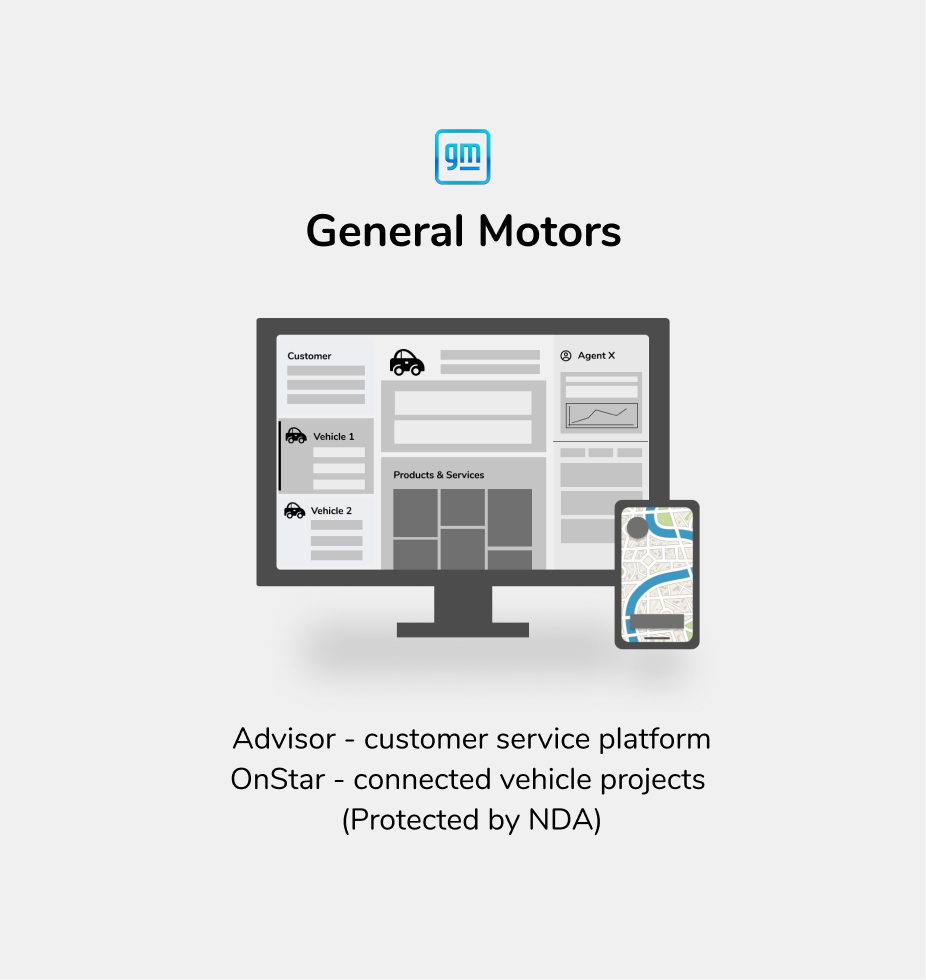
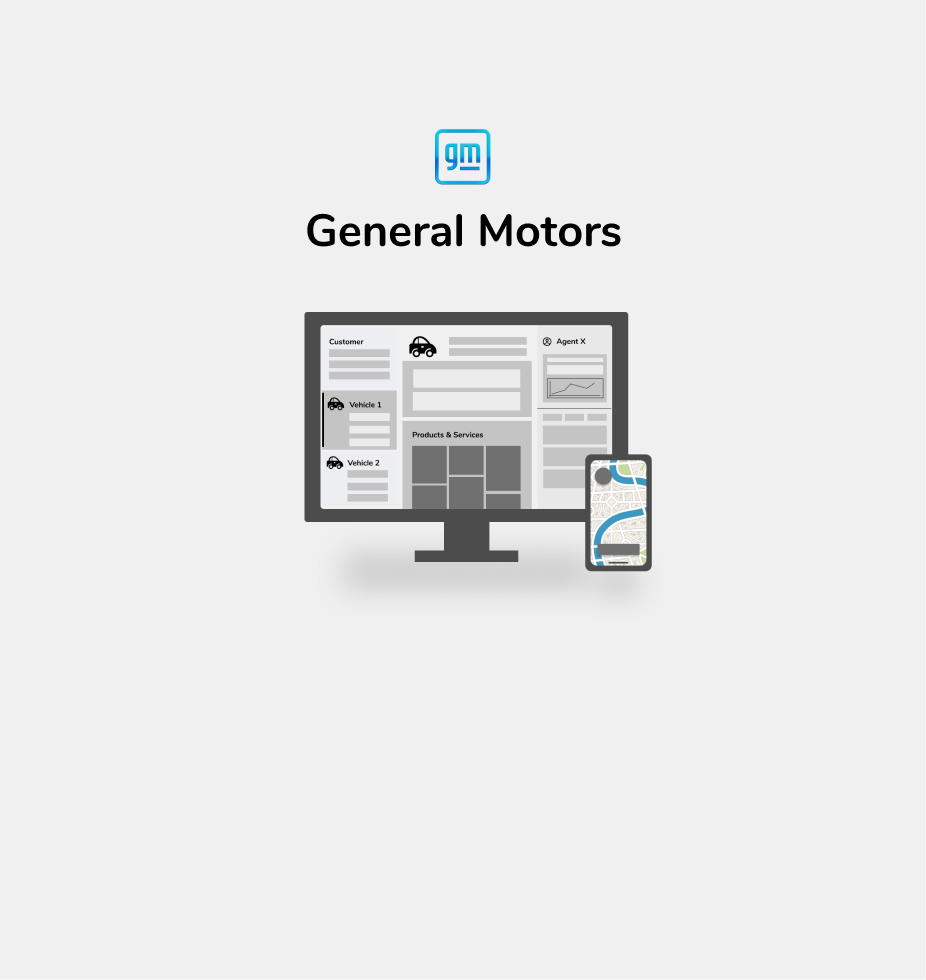
responsive home

Changed region(s): [[0.2721, 0.3061, 0.7559, 0.7041], [0.3629, 0.7347, 0.7559, 0.8571], [0.2419, 0.7347, 0.3629, 0.8265]]

diff --git a/index.html b/index.html
@@ -124,7 +124,7 @@
                                 <div class="about-wrapper wow fadeInRight">
                                     <div>
                                         
-                                        <div class="site-heading" style="display: inline-block;">
+                                        <div class="site-heading project_header" >
                                             <h3>General Motors
                                             </h3>
                                         </div>
@@ -153,7 +153,7 @@
                             <div class="col-lg-6 col-md-12 col-xs-12 info">
                                 <div class="about-wrapper wow fadeInRight">
                                     <div>
-                                        <div class="site-heading" style="display: inline-block;">
+                                        <div class="site-heading project_header">
                                             <h3>Ava
                                             </h3>
                                         </div>
@@ -182,7 +182,7 @@
                             <div class="col-lg-6 col-md-12 col-xs-12 info">
                                 <div class="about-wrapper wow fadeInRight">
                                     <div>
-                                        <div class="site-heading" style="display: inline-block;">
+                                        <div class="site-heading project_header">
                                             <h3>Cinetrip
                                             </h3>
                                         </div>
@@ -211,7 +211,7 @@
                             <div class="col-lg-6 col-md-12 col-xs-12 info">
                                 <div class="about-wrapper wow fadeInRight">
                                     <div>
-                                        <div class="site-heading" style="display: inline-block;">
+                                        <div class="site-heading project_header">
                                             <h3>Levels.fyi
                                             </h3>
                                         </div>
@@ -240,7 +240,7 @@
                             <div class="col-lg-6 col-md-12 col-xs-12 info">
                                 <div class="about-wrapper wow fadeInRight">
                                     <div>
-                                        <div class="site-heading" style="display: inline-block;">
+                                        <div class="site-heading project_header">
                                             <h3>I'll Go If You Go
                                             </h3>
                                         </div>
@@ -269,7 +269,7 @@
                             <div class="col-lg-6 col-md-12 col-xs-12 info">
                                 <div class="about-wrapper wow fadeInRight">
                                     <div>
-                                        <div class="site-heading" style="display: inline-block;">
+                                        <div class="site-heading project_header">
                                             <h3>UX Design Intern
                                             </h3>
                                         </div>
@@ -298,34 +298,6 @@
                 </div>
             </div>
         </section>
-        <!-- Feature Section End -->
-        <!-- Signup Section Start -->
-        <!--       <section id="signup" class="section-padding bg-gray">
-            <div class="container">
-                <div class="section-header text-center">
-                    <h2 class="section-title wow fadeInDown" data-wow-delay="0.3s">Stay Tuned</h2>
-                    <div class="shape wow fadeInDown" data-wow-delay="0.3s"></div>
-                </div>
-                <div class="row contact-form-area wow fadeInUp" data-wow-delay="0.4s">
-                    <div class="col-lg-4 col-md-12 col-sm-12">
-                    </div>
-                    <div class="col-lg-4 col-md-12 col-sm-12"> -->
-                        <!-- Sign up form start-->
-                        <!--                         <section class="text-center">
-                            <form id="contactForm2" data-toggle="validator" data-focus="false">
-                                <h4>Exclusive Early Access to Cinetrip</h4>
-                                <input type="email" class="form-control" id="cemail2" placeholder="Enter your email" aria-describedby="emailHelp" pattern="[a-z0-9._%+-]+@[a-z0-9.-]+\.[a-z]{3}$" required>
-                                <small id="emailHelp" class="form-text text-muted">No newsletter. No promotion ads. No misuse.</br>
-                                Your information is absolutely confidential. </small>
-                                <div class="header-button">
-                                    <button type="submit" class="btn btn-border">COUNT ME IN</button>
-                                </div>
-                            </form>
-                        </section>
-                    </div>
-                </div>
-            </div> -->
-            <!-- </section> -->
             <!-- Signup Section End -->
             <!-- Footer Section Start -->
             <footer id="footer" class="footer-area section-padding">

diff --git a/assets/css/responsive.css b/assets/css/responsive.css
@@ -172,8 +172,19 @@
     .gm-parallax {
 
   /* The image used */
-  background-image: url("../img/gm-img/gm_mobile.png");  /* Set a specific height */
+  background-image: url("../img/gm-img/gm_mobile.png"); 
+  min-height: 550px; /* Set a specific height */
 }
+
+.project-tag{
+  margin-left: 0;}
+
+  .project-tag2{
+  padding: 0;
+  margin-left: 0;}
+
+
+
 
     .video-features {
       width:38%;
@@ -212,6 +223,11 @@
     .section-padding {
       padding: 60px 30px;
     }
+
+      #work{
+    padding-bottom: 0;
+    
+  }
 
     .section-title {
       font-size: 32px;
@@ -320,6 +336,7 @@
     .footer-area .footer-titel {
       margin-top: 30px;
     }
+
 
     .contact-right-area {
       margin: 20px 0;

diff --git a/assets/css/main.css b/assets/css/main.css
@@ -430,7 +430,6 @@ color:#3d5af1;
 
 /*project tag*/
 .project-tag{
-  margin-left: 1em;
   display: inline-block;
   font-size: 13px;
   color:#3d5af1;
@@ -440,13 +439,18 @@ color:#3d5af1;
 }
 
 .project-tag2{
-  margin-left: 1em;
   display: inline-block;
   font-size: 13px;
   color:#3d5af1;
   padding: 5px 10px;
   border-radius: 20px;
   background-color: white;
+}
+
+.project_header{
+  display: inline-block;
+  margin-right: 1em;
+
 }
 
 .shape2 {
